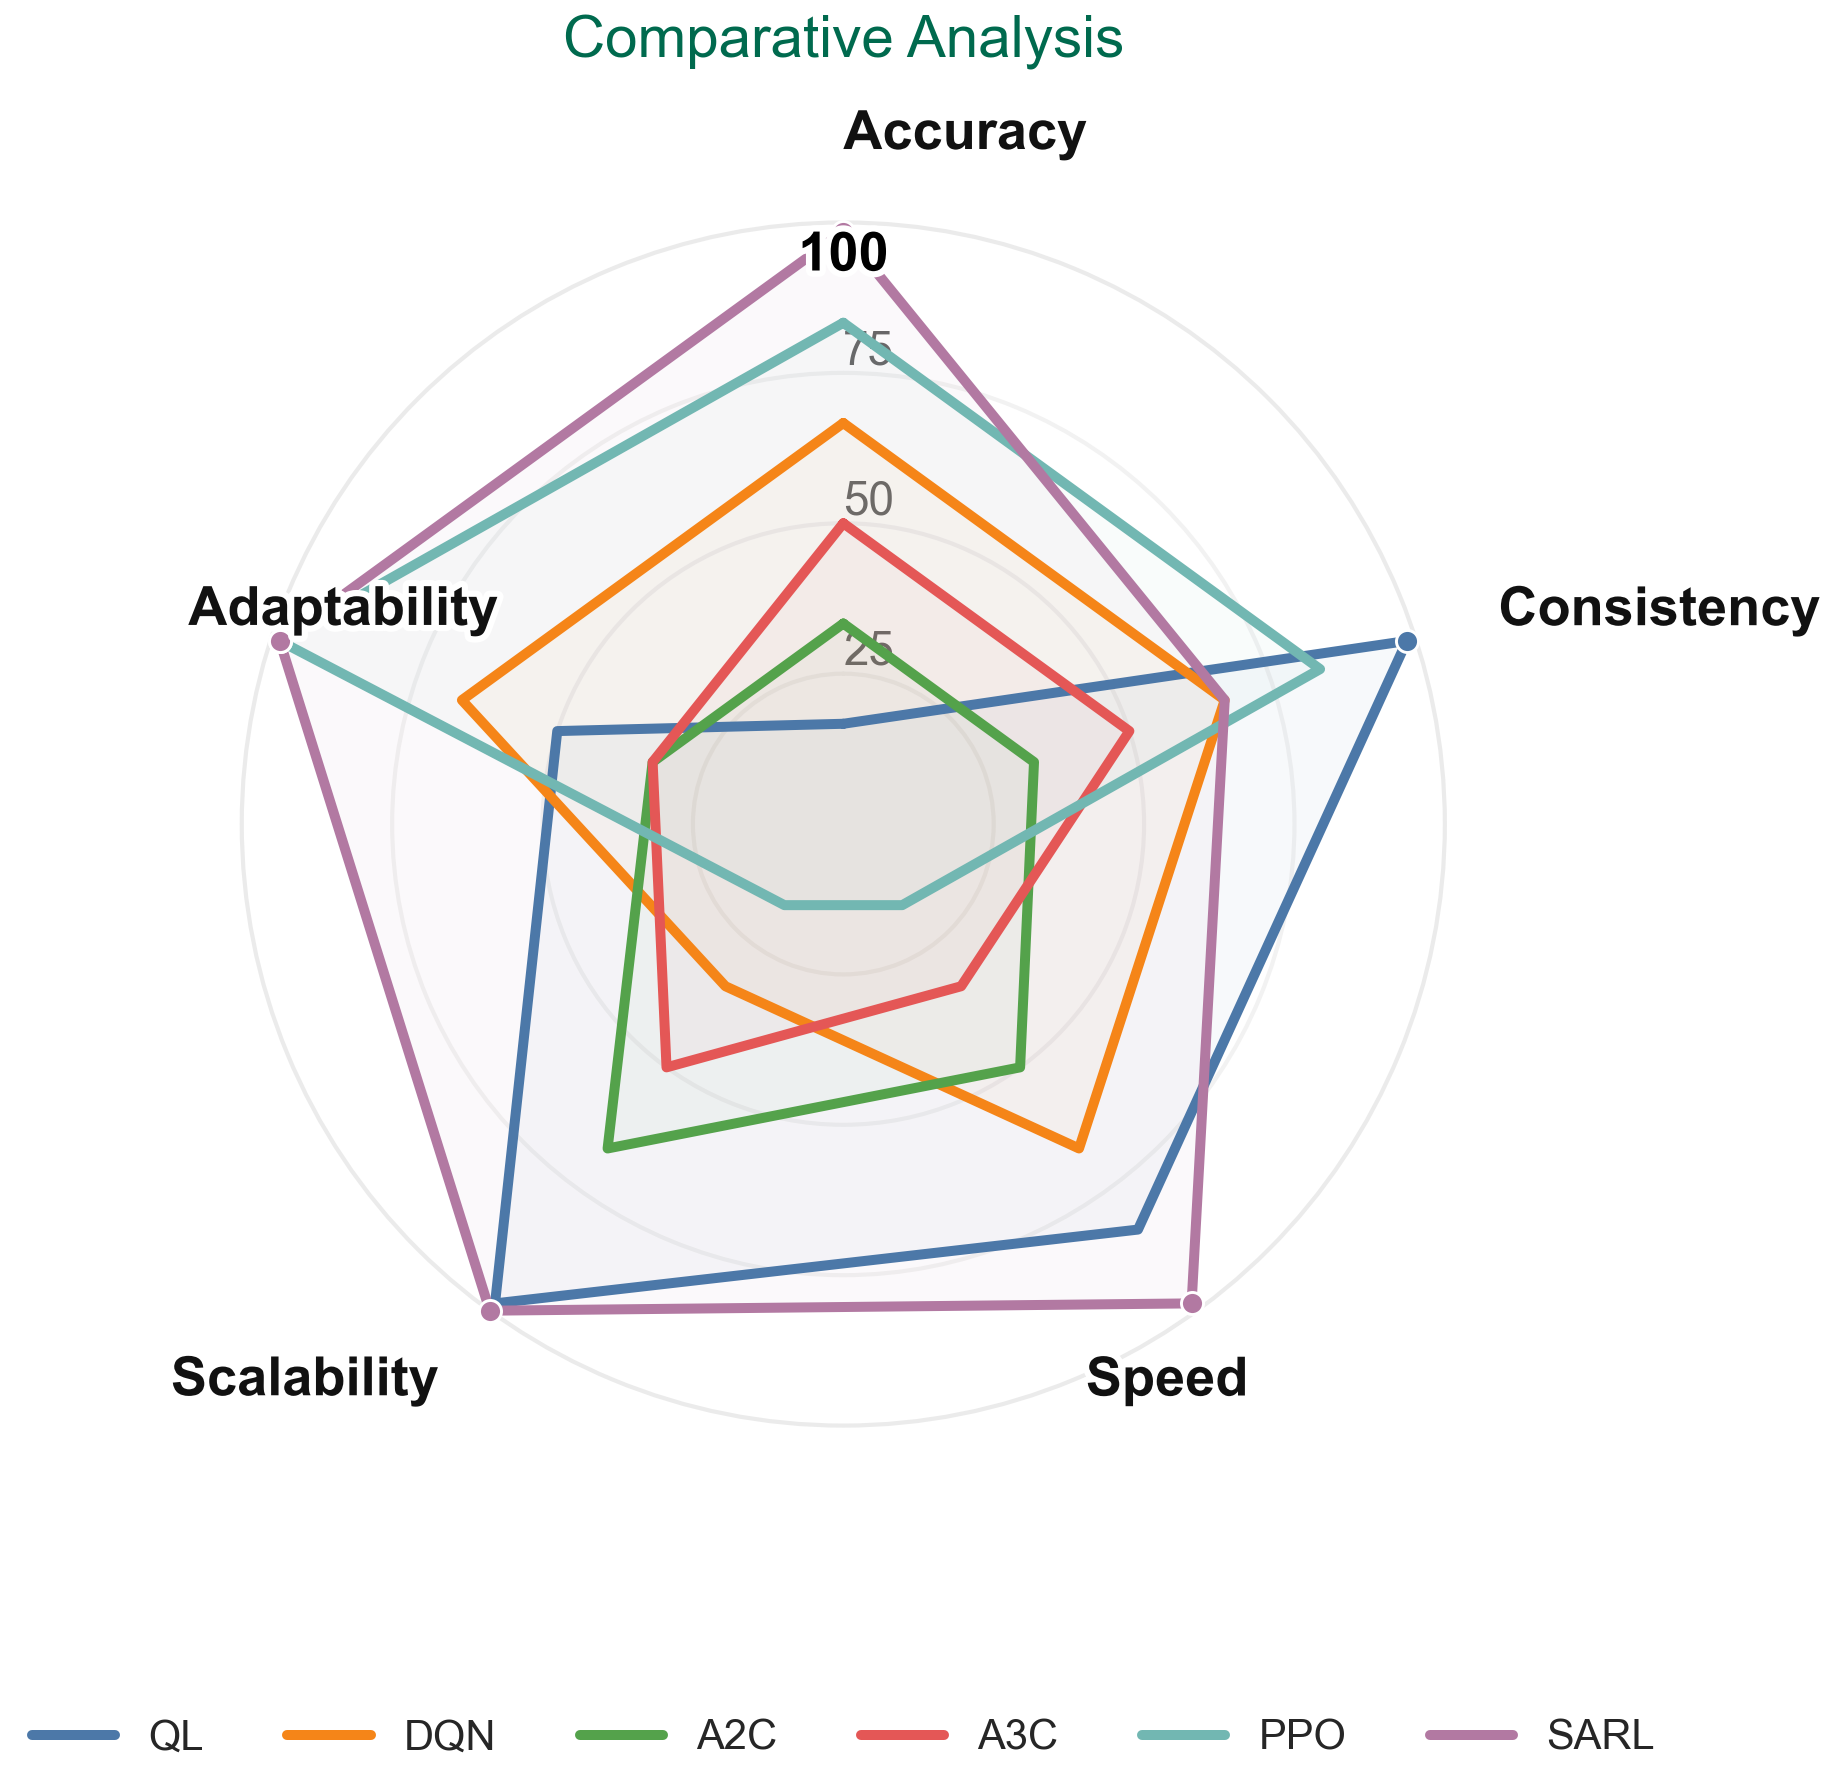
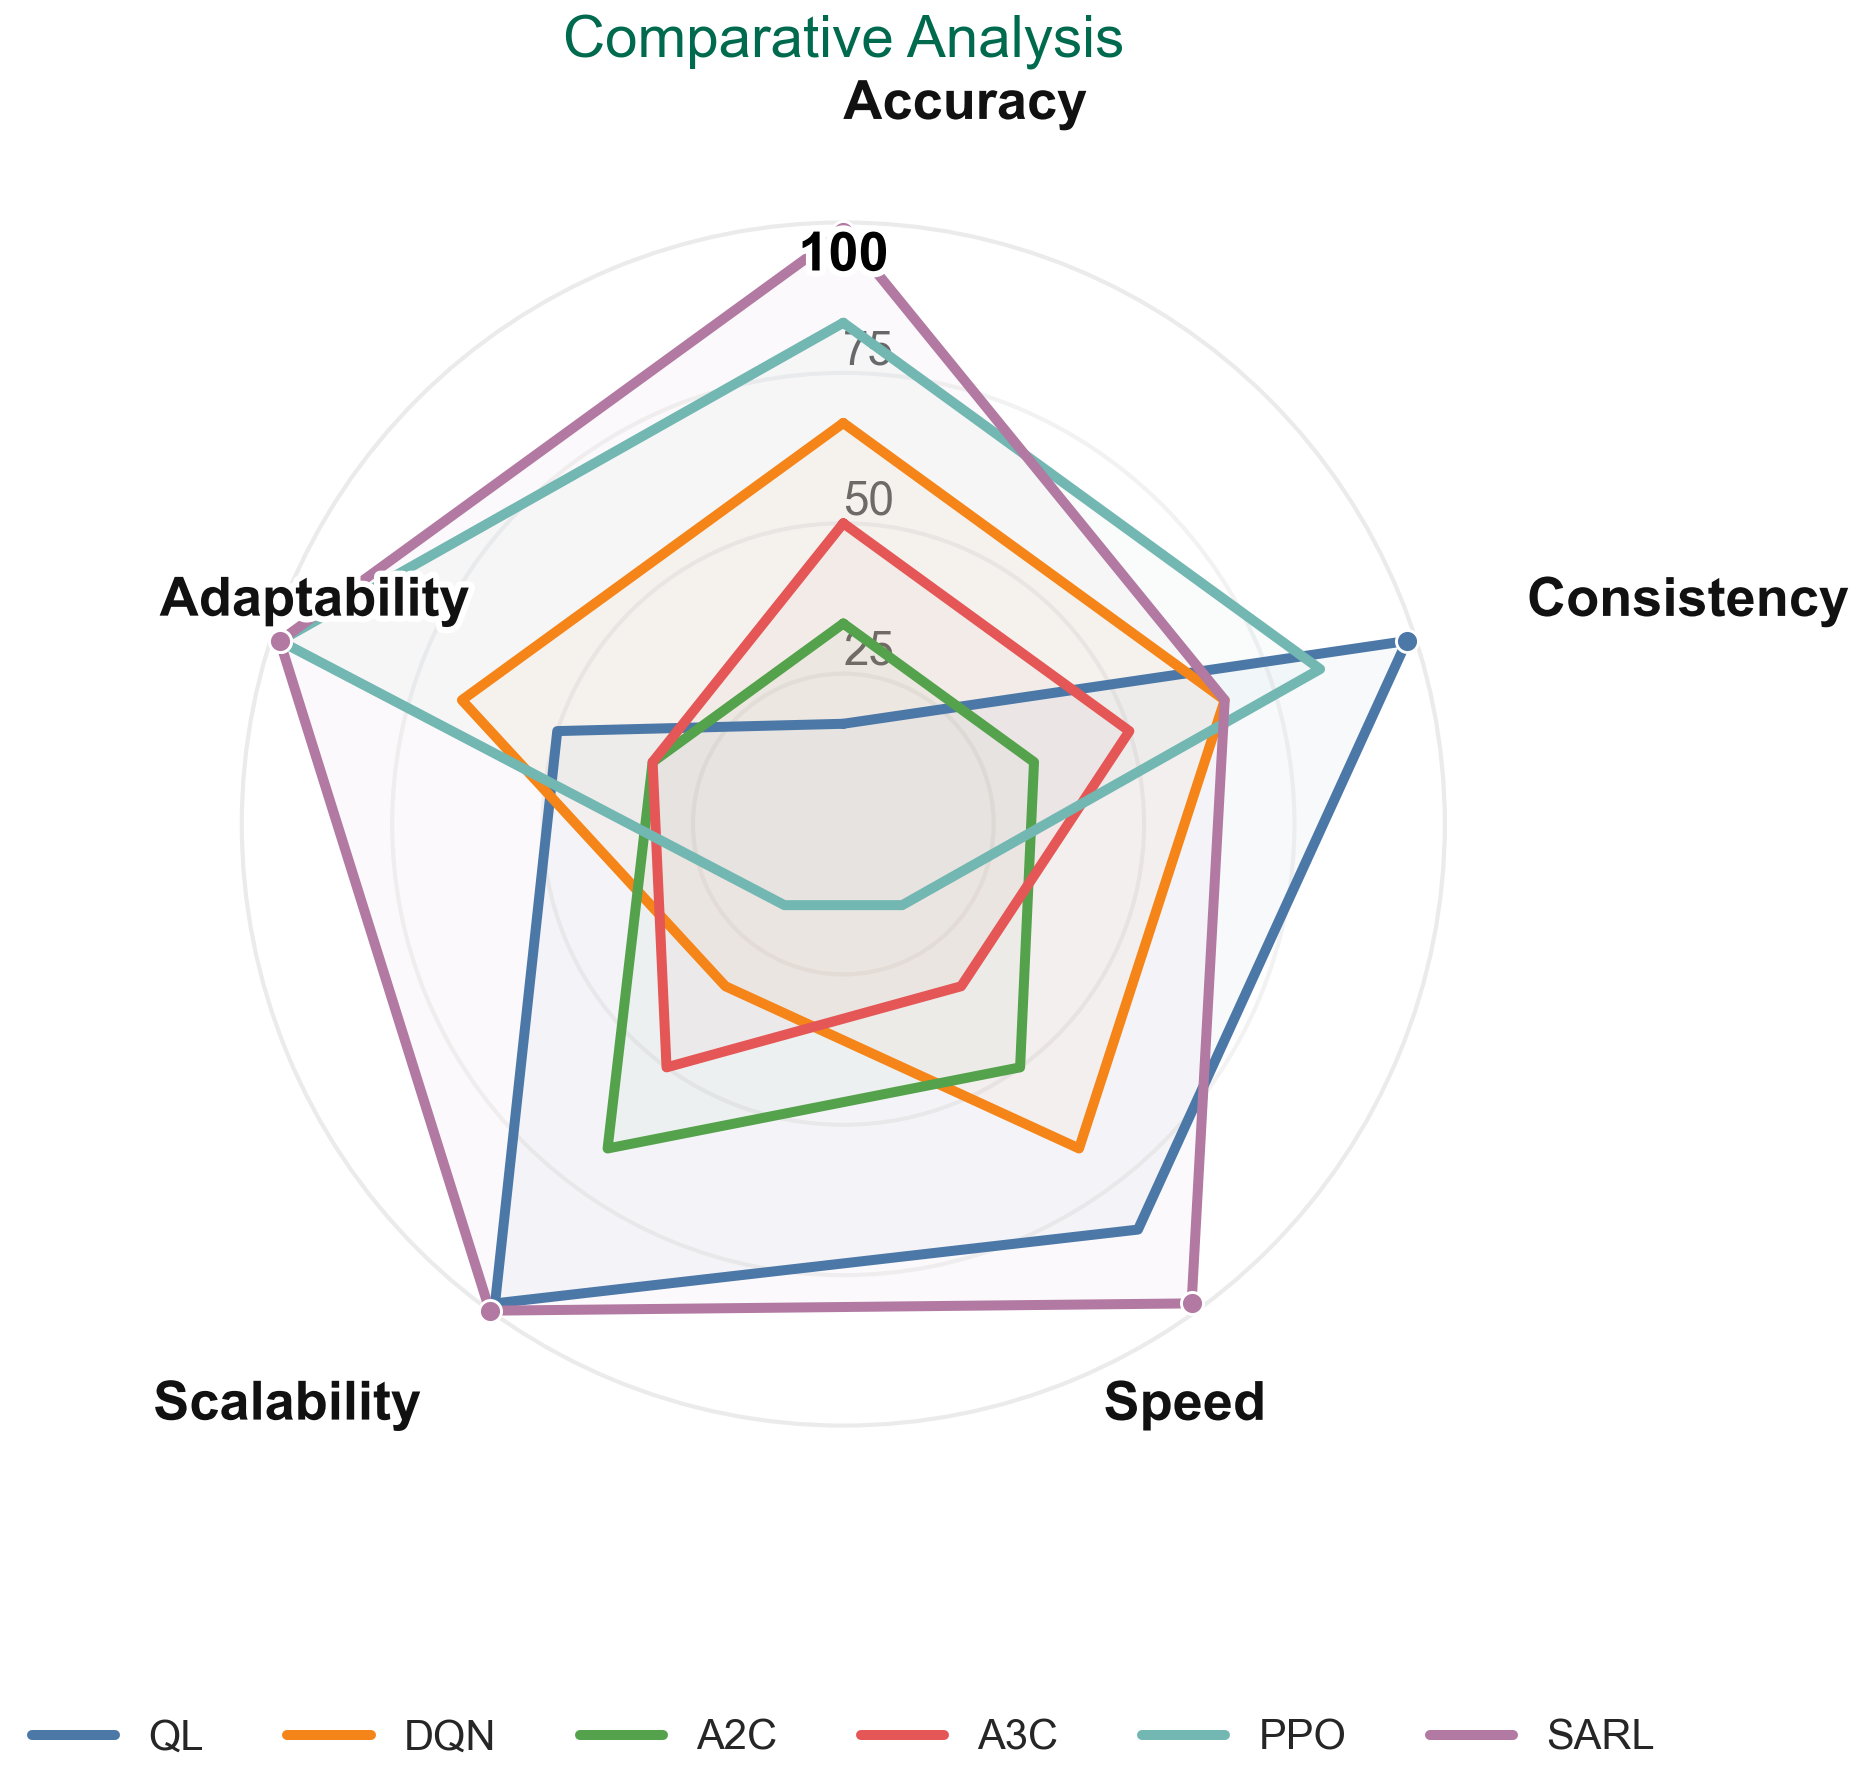
commit

diff --git a/curriculum_sequencing_rl/plot_poster.py b/curriculum_sequencing_rl/plot_poster.py
@@ -874,7 +874,7 @@ def plot_radar_axes(df_all: pd.DataFrame, models: List[str], outdir: Path, radar
 
     # Draw bold axis labels outside the 100 ring for clarity
     try:
-        r_label = 114.5
+        r_label = 119.5
         for ang, lab in zip(angles[:-1], labels):
             # Angle-aware alignment for readability
             c = np.cos(ang)
